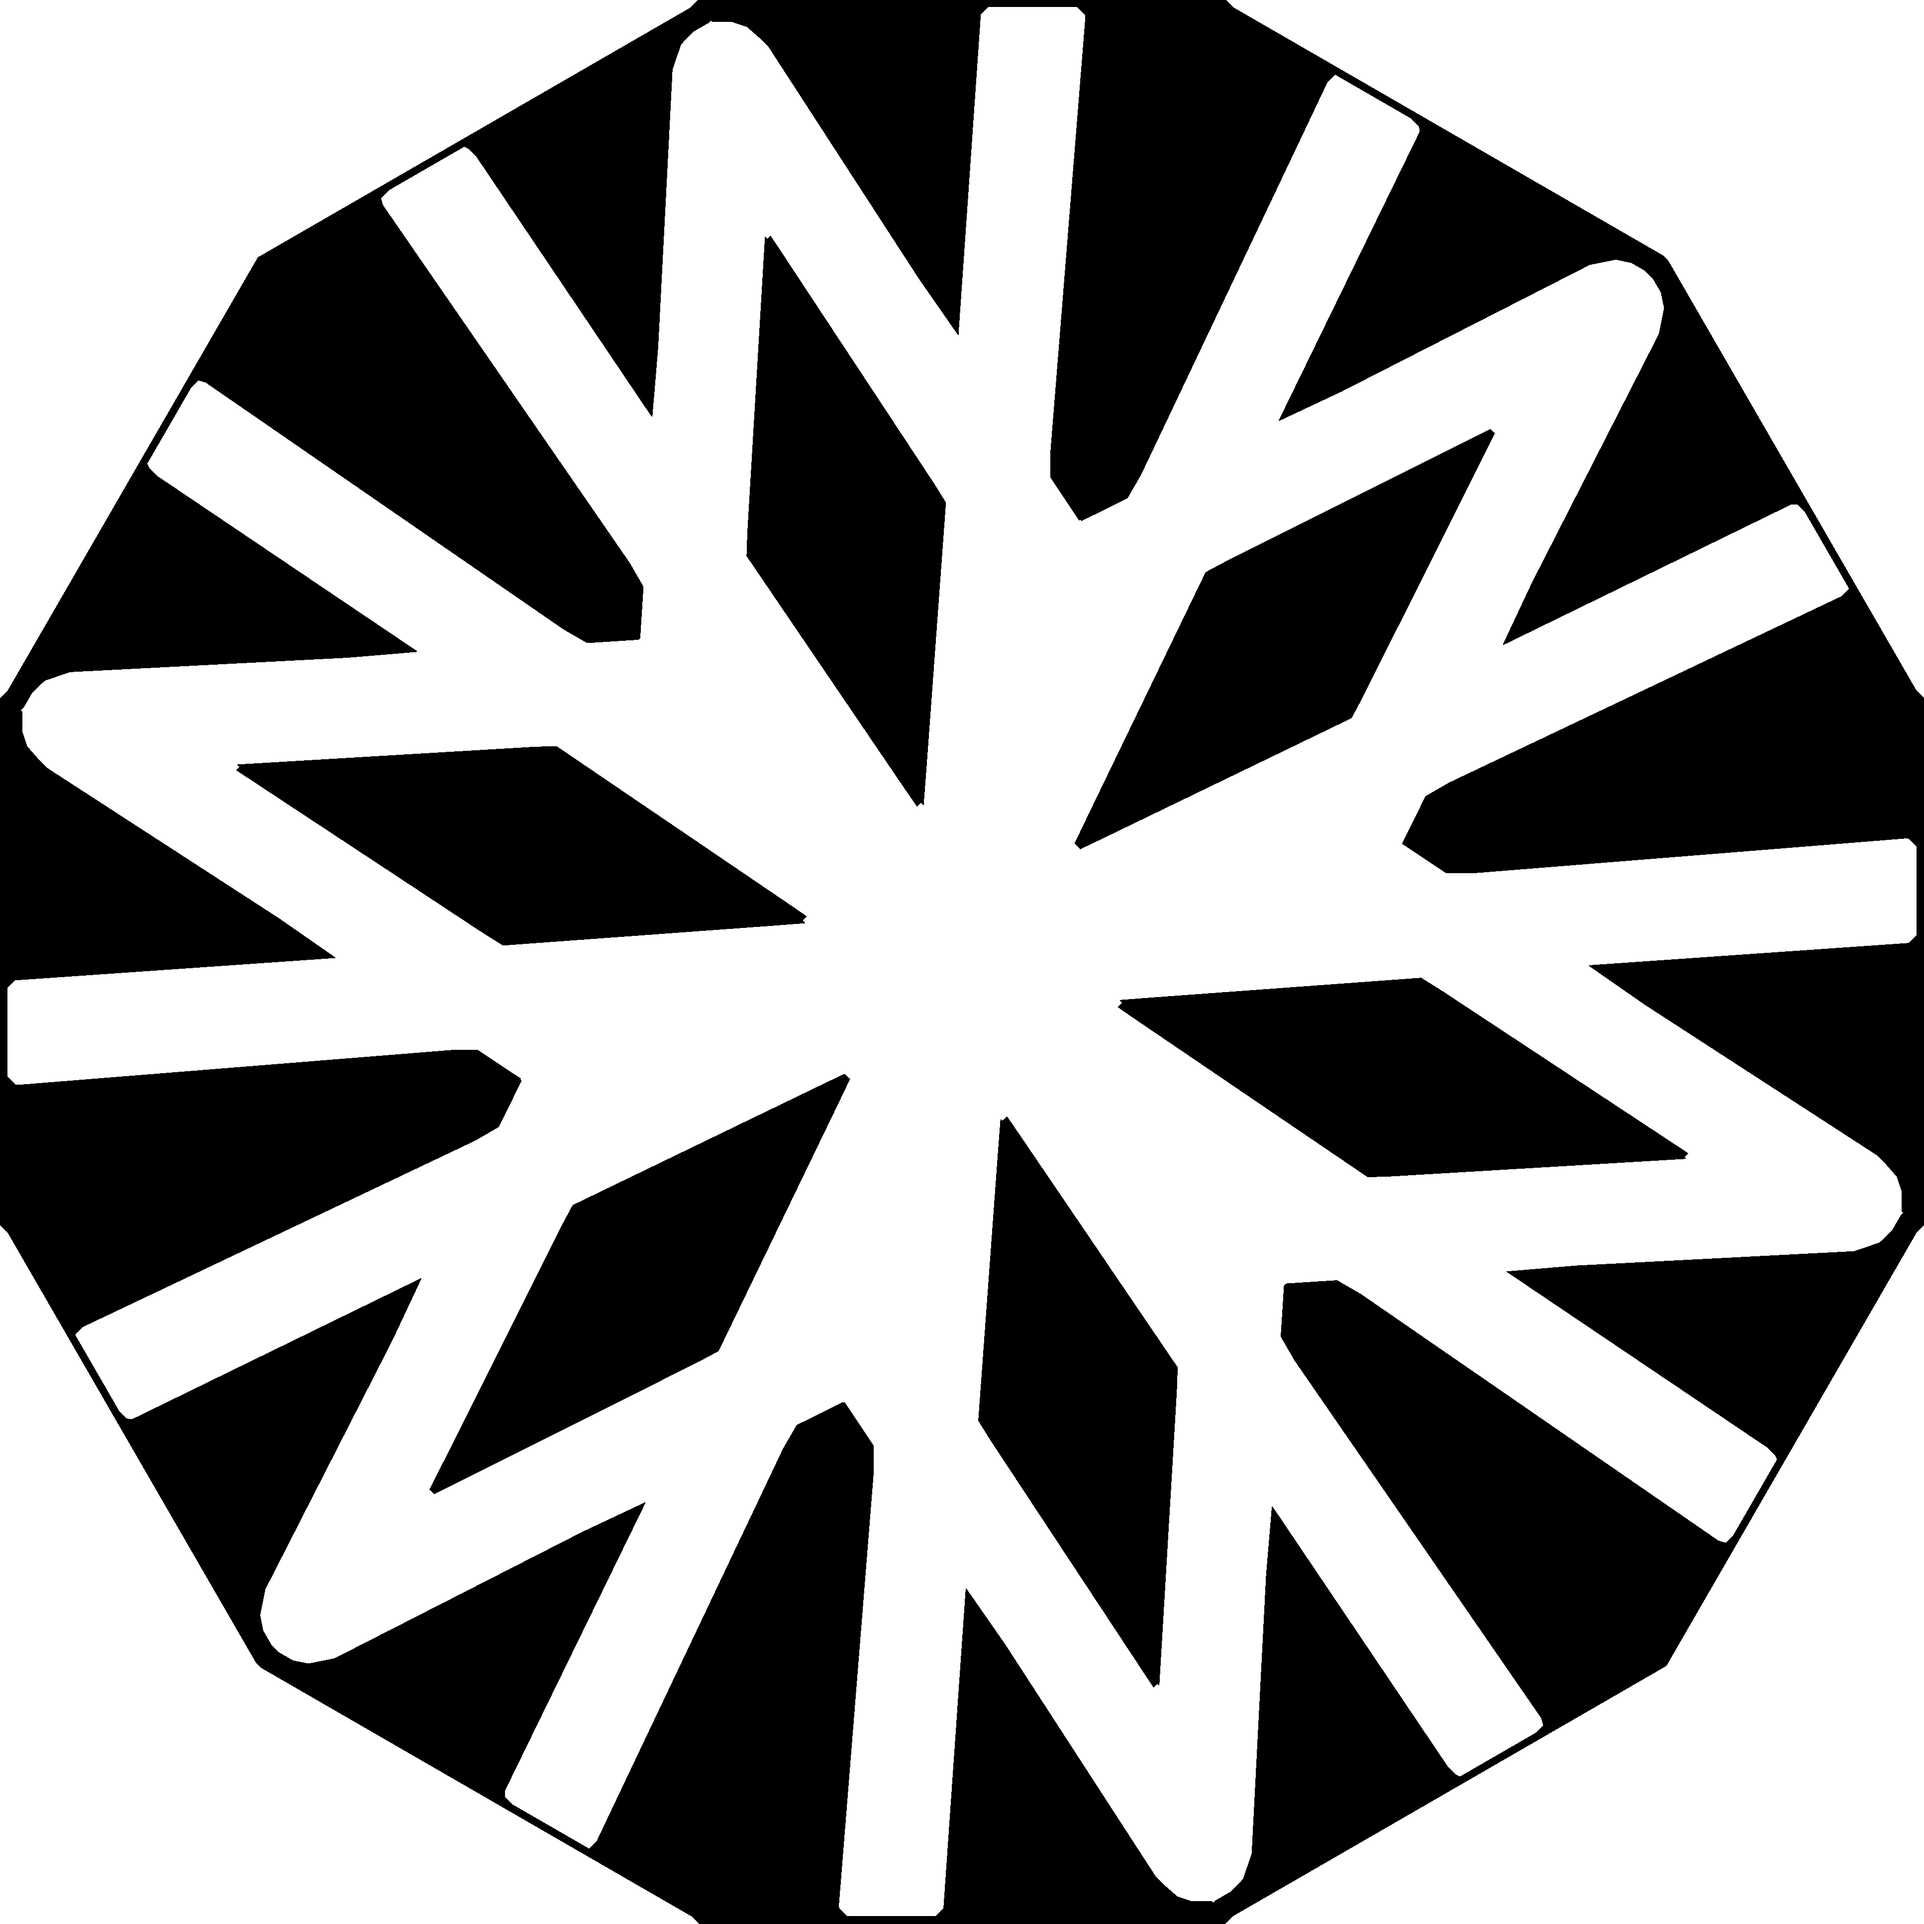
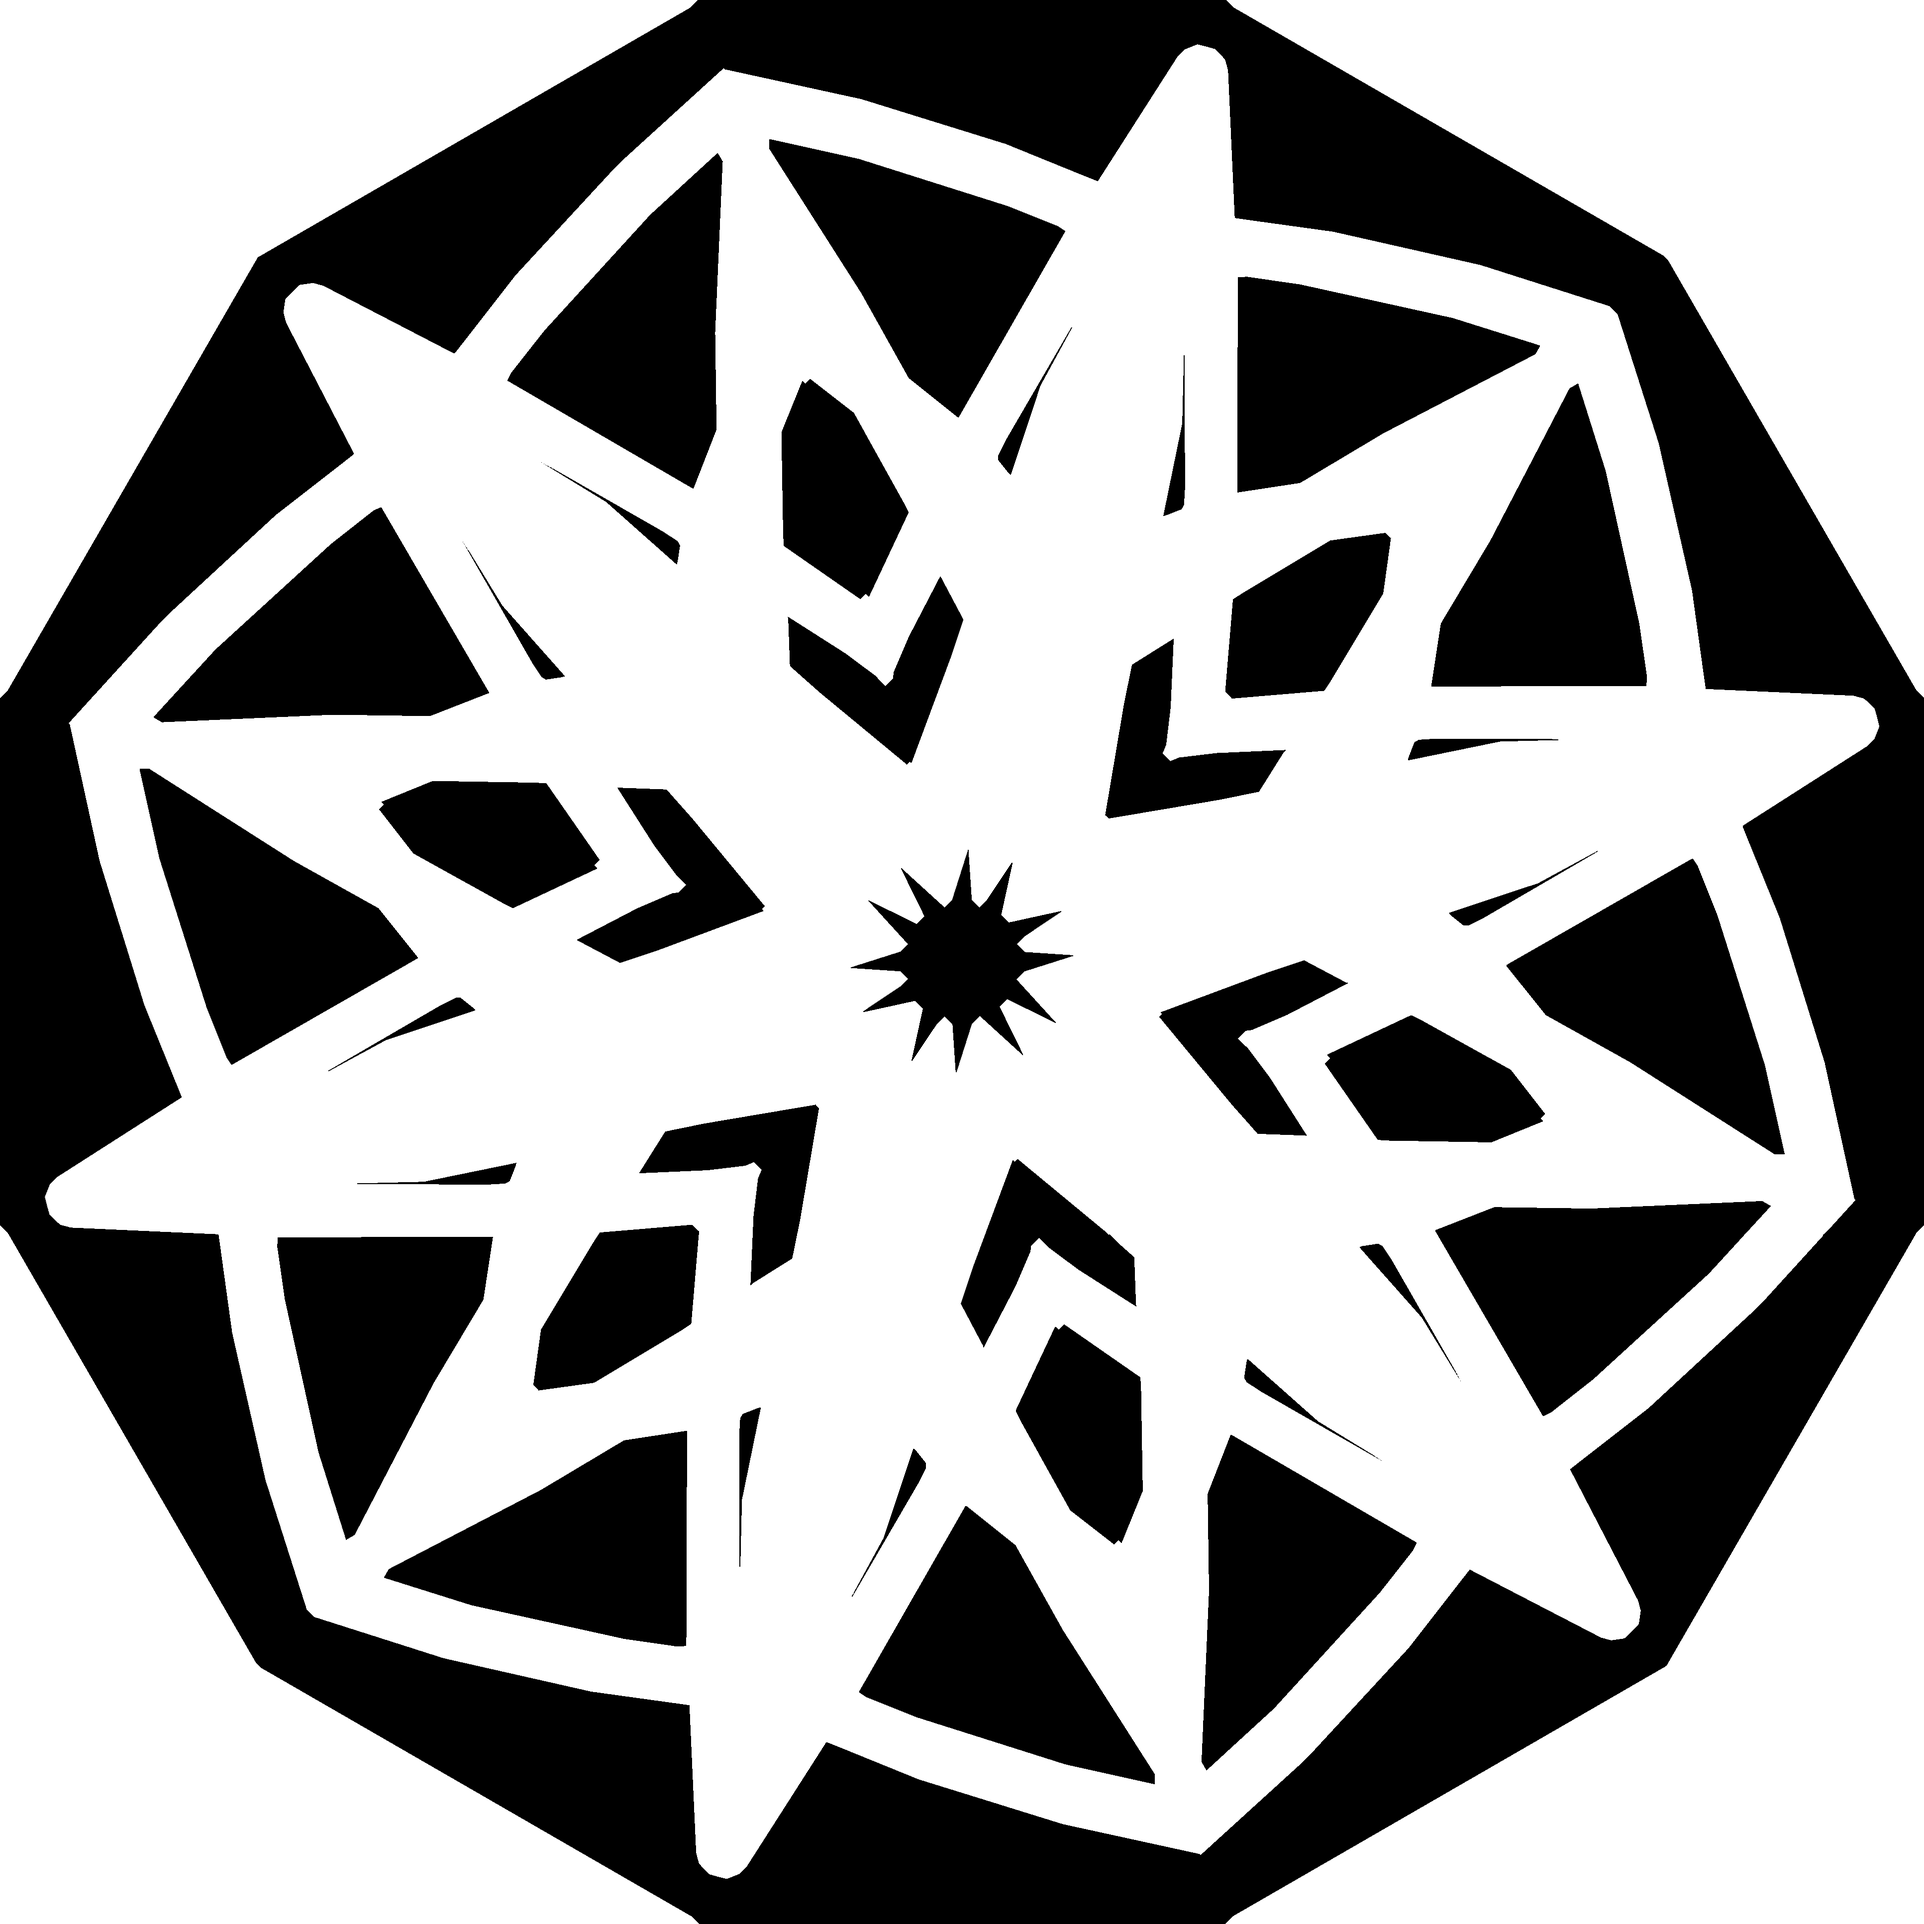
Improve map generation. Make new cool maps.

diff --git a/src/main/java/com/greenteam/huntjumper/map/SnowflakeMapGenerator.java b/src/main/java/com/greenteam/huntjumper/map/SnowflakeMapGenerator.java
@@ -1,9 +1,8 @@
 package com.greenteam.huntjumper.map;
 
+import com.greenteam.huntjumper.utils.*;
 import com.greenteam.huntjumper.utils.Point;
 import com.greenteam.huntjumper.utils.Polygon;
-import com.greenteam.huntjumper.utils.Segment;
-import com.greenteam.huntjumper.utils.Vector2D;
 
 import javax.imageio.ImageIO;
 import java.awt.*;
@@ -12,6 +11,7 @@ import java.io.File;
 import java.io.IOException;
 import java.util.ArrayList;
 import java.util.List;
+import java.util.Random;
 
 /**
  * User: GreenTea Date: 29.01.12 Time: 15:07
@@ -32,6 +32,46 @@ public class SnowflakeMapGenerator
                  minSegmentsCount);
       }
    }
+   
+   private static void drawHorizontalLines(AvailabilityMap am, Segment s1, Segment s2, 
+                                           float minWidth, float maxWidth, float totalWidth,
+                                           float maxAngleAv, float maxAngleDeviation,
+                                           int minChangeDirectionCount)
+   {
+      Random rand = Utils.rand;
+      float dw = maxWidth - minWidth;
+
+      while (totalWidth > 0)
+      {
+         float w = minWidth + rand.nextFloat()*dw;
+         totalWidth -= w;
+
+         Segment l0 = new Segment(s1.getRandomPoint(), s2.getRandomPoint());
+         float subSegmentLength = (float)l0.length() / minChangeDirectionCount;
+         float maxLen = 1.5f*(float)l0.length();
+         float currLen = 0;
+         Point start = l0.getEnd1();
+
+         float angleChangeAv = rand.nextFloat()*maxAngleAv;
+         Vector2D currVector = new Vector2D(l0.getEnd1(), l0.getEnd2()).setLength(subSegmentLength);
+         Segment currSegment = null;
+
+
+         while (currSegment == null || currLen < maxLen)
+         {
+            currSegment = new Segment(start, new Point(start).plus(currVector));
+            currLen += subSegmentLength;
+            am.drawFreeLine(currSegment, w);
+
+            float angleChangeDeviation = rand.nextFloat()*maxAngleDeviation;
+            float angleChange = angleChangeAv + angleChangeDeviation;
+            currVector = new Vector2D(currVector).rotate(angleChange);
+            start = currSegment.getEnd2();
+         }
+      }
+      
+   }
+   
 
    public static void generateMap(int segmentsCount, String imageFileName) throws IOException
    {
@@ -57,17 +97,12 @@ public class SnowflakeMapGenerator
       segments.add(new Segment(p2, p3));
 
       AvailabilityMap am = new AvailabilityMap(segments);
-      Segment l1 = new Segment(segments.get(0).getRandomPoint(), segments.get(1).getRandomPoint());
-      Segment l2 = new Segment(segments.get(0).getRandomPoint(), segments.get(1).getRandomPoint());
-      Segment l3 = new Segment(p1, segments.get(2).getRandomPoint());
       Segment l4 = new Segment(p2, p3);
-      float lineWidth = r / 20;
-      am.drawFreeLine(l1, lineWidth);
-      am.drawFreeLine(l2, lineWidth);
-      am.drawFreeLine(l3, lineWidth);
-      am.drawWall(l4, lineWidth / 5);
-//      Segment lx = new Segment(segments.get(0).getPoint(0.5f), segments.get(1).getPoint(0.5f));
-//      am.drawFreeLine(lx, lineWidth);
+
+      drawHorizontalLines(am, segments.get(0), segments.get(1), r / 40, r / 30, r / 5, 10f, 3f, 3);
+      am.drawFreeLine(new Segment(p1, p1), r / 20);
+      am.drawWall(l4, r / 100);
+
       List<Polygon> polygons = am.splitOnPolygons();
       List<Polygon> allPolygons = new ArrayList<Polygon>();
 
@@ -91,9 +126,6 @@ public class SnowflakeMapGenerator
       am.removeIsolatedFreePoints();
       am.splitOnPolygons();
       am.saveToFile(imageFileName);
-
-//      am = new AvailabilityMap("saved.png");
-//      am.saveToFile("saved2.png");
 
 //      BufferedImage image = new BufferedImage(am.getCountX(), am.getCountY(),
 //              BufferedImage.TYPE_INT_BGR);

diff --git a/src/main/java/com/greenteam/huntjumper/utils/Segment.java b/src/main/java/com/greenteam/huntjumper/utils/Segment.java
@@ -7,6 +7,41 @@ import java.util.List;
  */
 public class Segment
 {
+   public static Point findIntersection(Segment s1, boolean s1IsLine, Segment s2, boolean s2IsLine)
+   {
+      s1.initLineEquation();
+      s2.initLineEquation();
+
+      double a1 = s1.a;
+      double b1 = s1.b;
+      double c1 = s1.c;
+      double a2 = s2.a;
+      double b2 = s2.b;
+      double c2 = s2.c;
+
+      double d = a1*b2 - a2*b1;
+
+      if (Utils.equals(d, 0)) // lines are parallel
+      {
+         return null;
+      }
+
+      double dx = c1*b2 - c2*b1;
+      double x = dx / d;
+
+      double dy = a1*c2 - a2*c1;
+      double y = dy / d;
+
+      Point res = null;
+      if ((s1IsLine || (s1.xRange.contains((float)x) && s1.yRange.contains((float)y))) &&
+          (s2IsLine || (s2.xRange.contains((float)x) && s2.yRange.contains((float)y))))
+      {
+         res = new Point((float)x, (float)y);
+      }
+
+      return res;
+   }
+
    private Point end1;
    private Point end2;
 
@@ -111,37 +146,7 @@ public class Segment
 
    public Point intersectionWith(Segment other)
    {
-      initLineEquation();
-      other.initLineEquation();
-
-      double a1 = a;
-      double b1 = b;
-      double c1 = c;
-      double a2 = other.a;
-      double b2 = other.b;
-      double c2 = other.c;
-
-      double d = a1*b2 - a2*b1;
-
-      if (Utils.equals(d, 0)) // lines are parallel
-      {
-         return null;
-      }
-
-      double dx = c1*b2 - c2*b1;
-      double x = dx / d;
-
-      double dy = a1*c2 - a2*c1;
-      double y = dy / d;
-      
-      Point res = null;
-      if (xRange.contains((float)x) && other.xRange.contains((float)x) &&
-          yRange.contains((float)y) && other.yRange.contains((float)y))
-      {
-         res = new Point((float)x, (float)y);
-      }
-
-      return res;
+      return findIntersection(this, false, other, false);
    }
    
    public Point findMostFarPoint(List<Point> points)

diff --git a/src/main/java/com/greenteam/huntjumper/utils/Utils.java b/src/main/java/com/greenteam/huntjumper/utils/Utils.java
@@ -70,11 +70,11 @@ public final class Utils
       v.rotate(startAngle);
       
       List<Point> res = new ArrayList<Point>();
-      res.add(new Point(v.getX(), v.getY()));
+      res.add(new Point(center).plus(v));
       for (int i = 1; i < pointsCount; ++i)
       {
          v.rotate(angleStep);
-         res.add(new Point(v.getX(), v.getY()));
+         res.add(new Point(center).plus(v));
       }
 
       return res;

diff --git a/src/main/java/com/greenteam/huntjumper/map/Map.java b/src/main/java/com/greenteam/huntjumper/map/Map.java
@@ -83,7 +83,8 @@ public class Map implements IVisibleObject
    public boolean isPointFree(Point p)
    {
       Point tp = new Point(p).plus(map.getTranslationVector());
-      return map.getValue((int)tp.getX(), (int)tp.getY()) == AvailabilityMap.FREE;
+      return map.isValid((int)tp.getX(), (int)tp.getY()) &&
+              map.getValue((int)tp.getX(), (int)tp.getY()) == AvailabilityMap.FREE;
    }
 
    @Override

diff --git a/src/main/java/com/greenteam/huntjumper/map/AvailabilityMap.java b/src/main/java/com/greenteam/huntjumper/map/AvailabilityMap.java
@@ -250,8 +250,13 @@ public class AvailabilityMap
          }
       });
    }
-   
-   private boolean isValid(IntPoint p)
+
+   public boolean isValid(int x, int y)
+   {
+      return x >= 0 && x < countX && y >= 0 && y < countY;
+   }
+
+   public boolean isValid(IntPoint p)
    {
       return p.x >= 0 && p.x < countX && p.y >= 0 && p.y < countY;
    }

diff --git a/src/main/java/com/greenteam/huntjumper/HuntJumperGame.java b/src/main/java/com/greenteam/huntjumper/HuntJumperGame.java
@@ -41,7 +41,7 @@ public class HuntJumperGame implements Game
    {
       try
       {
-         map = new Map(new AvailabilityMap("maps/2.png"));
+         map = new Map(new AvailabilityMap("maps/1.png"));
       }
       catch (IOException e)
       {
